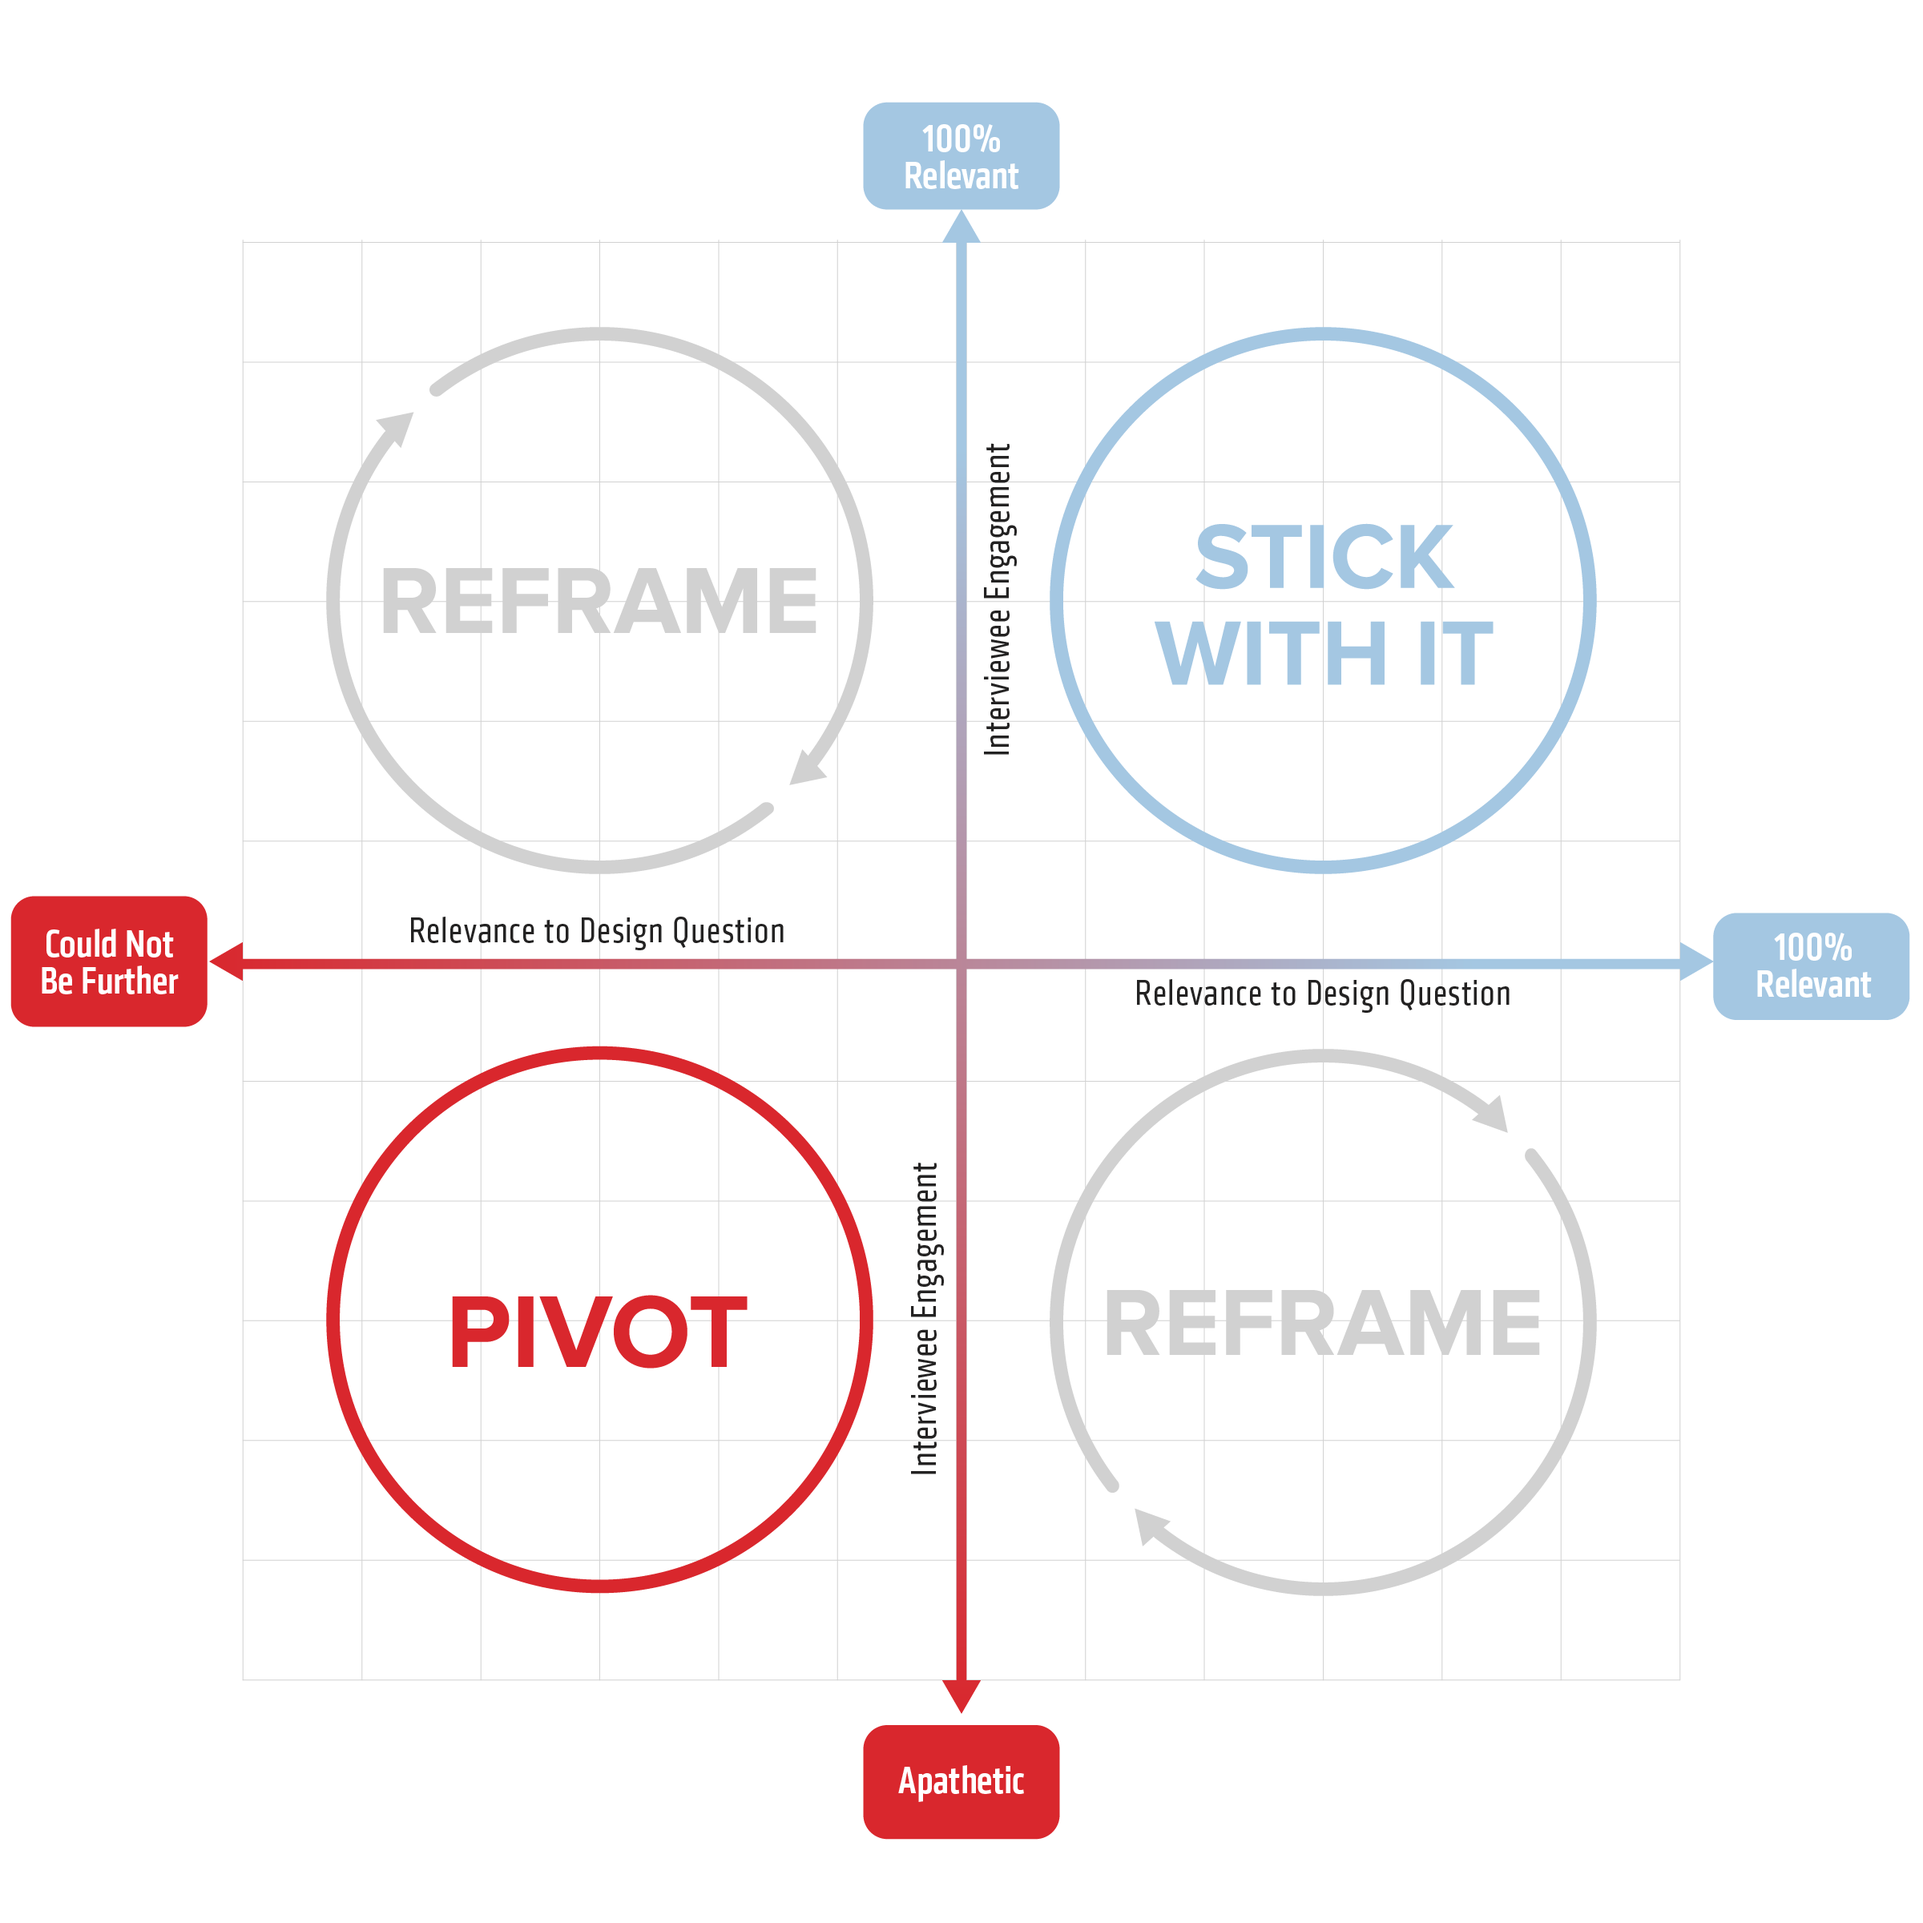
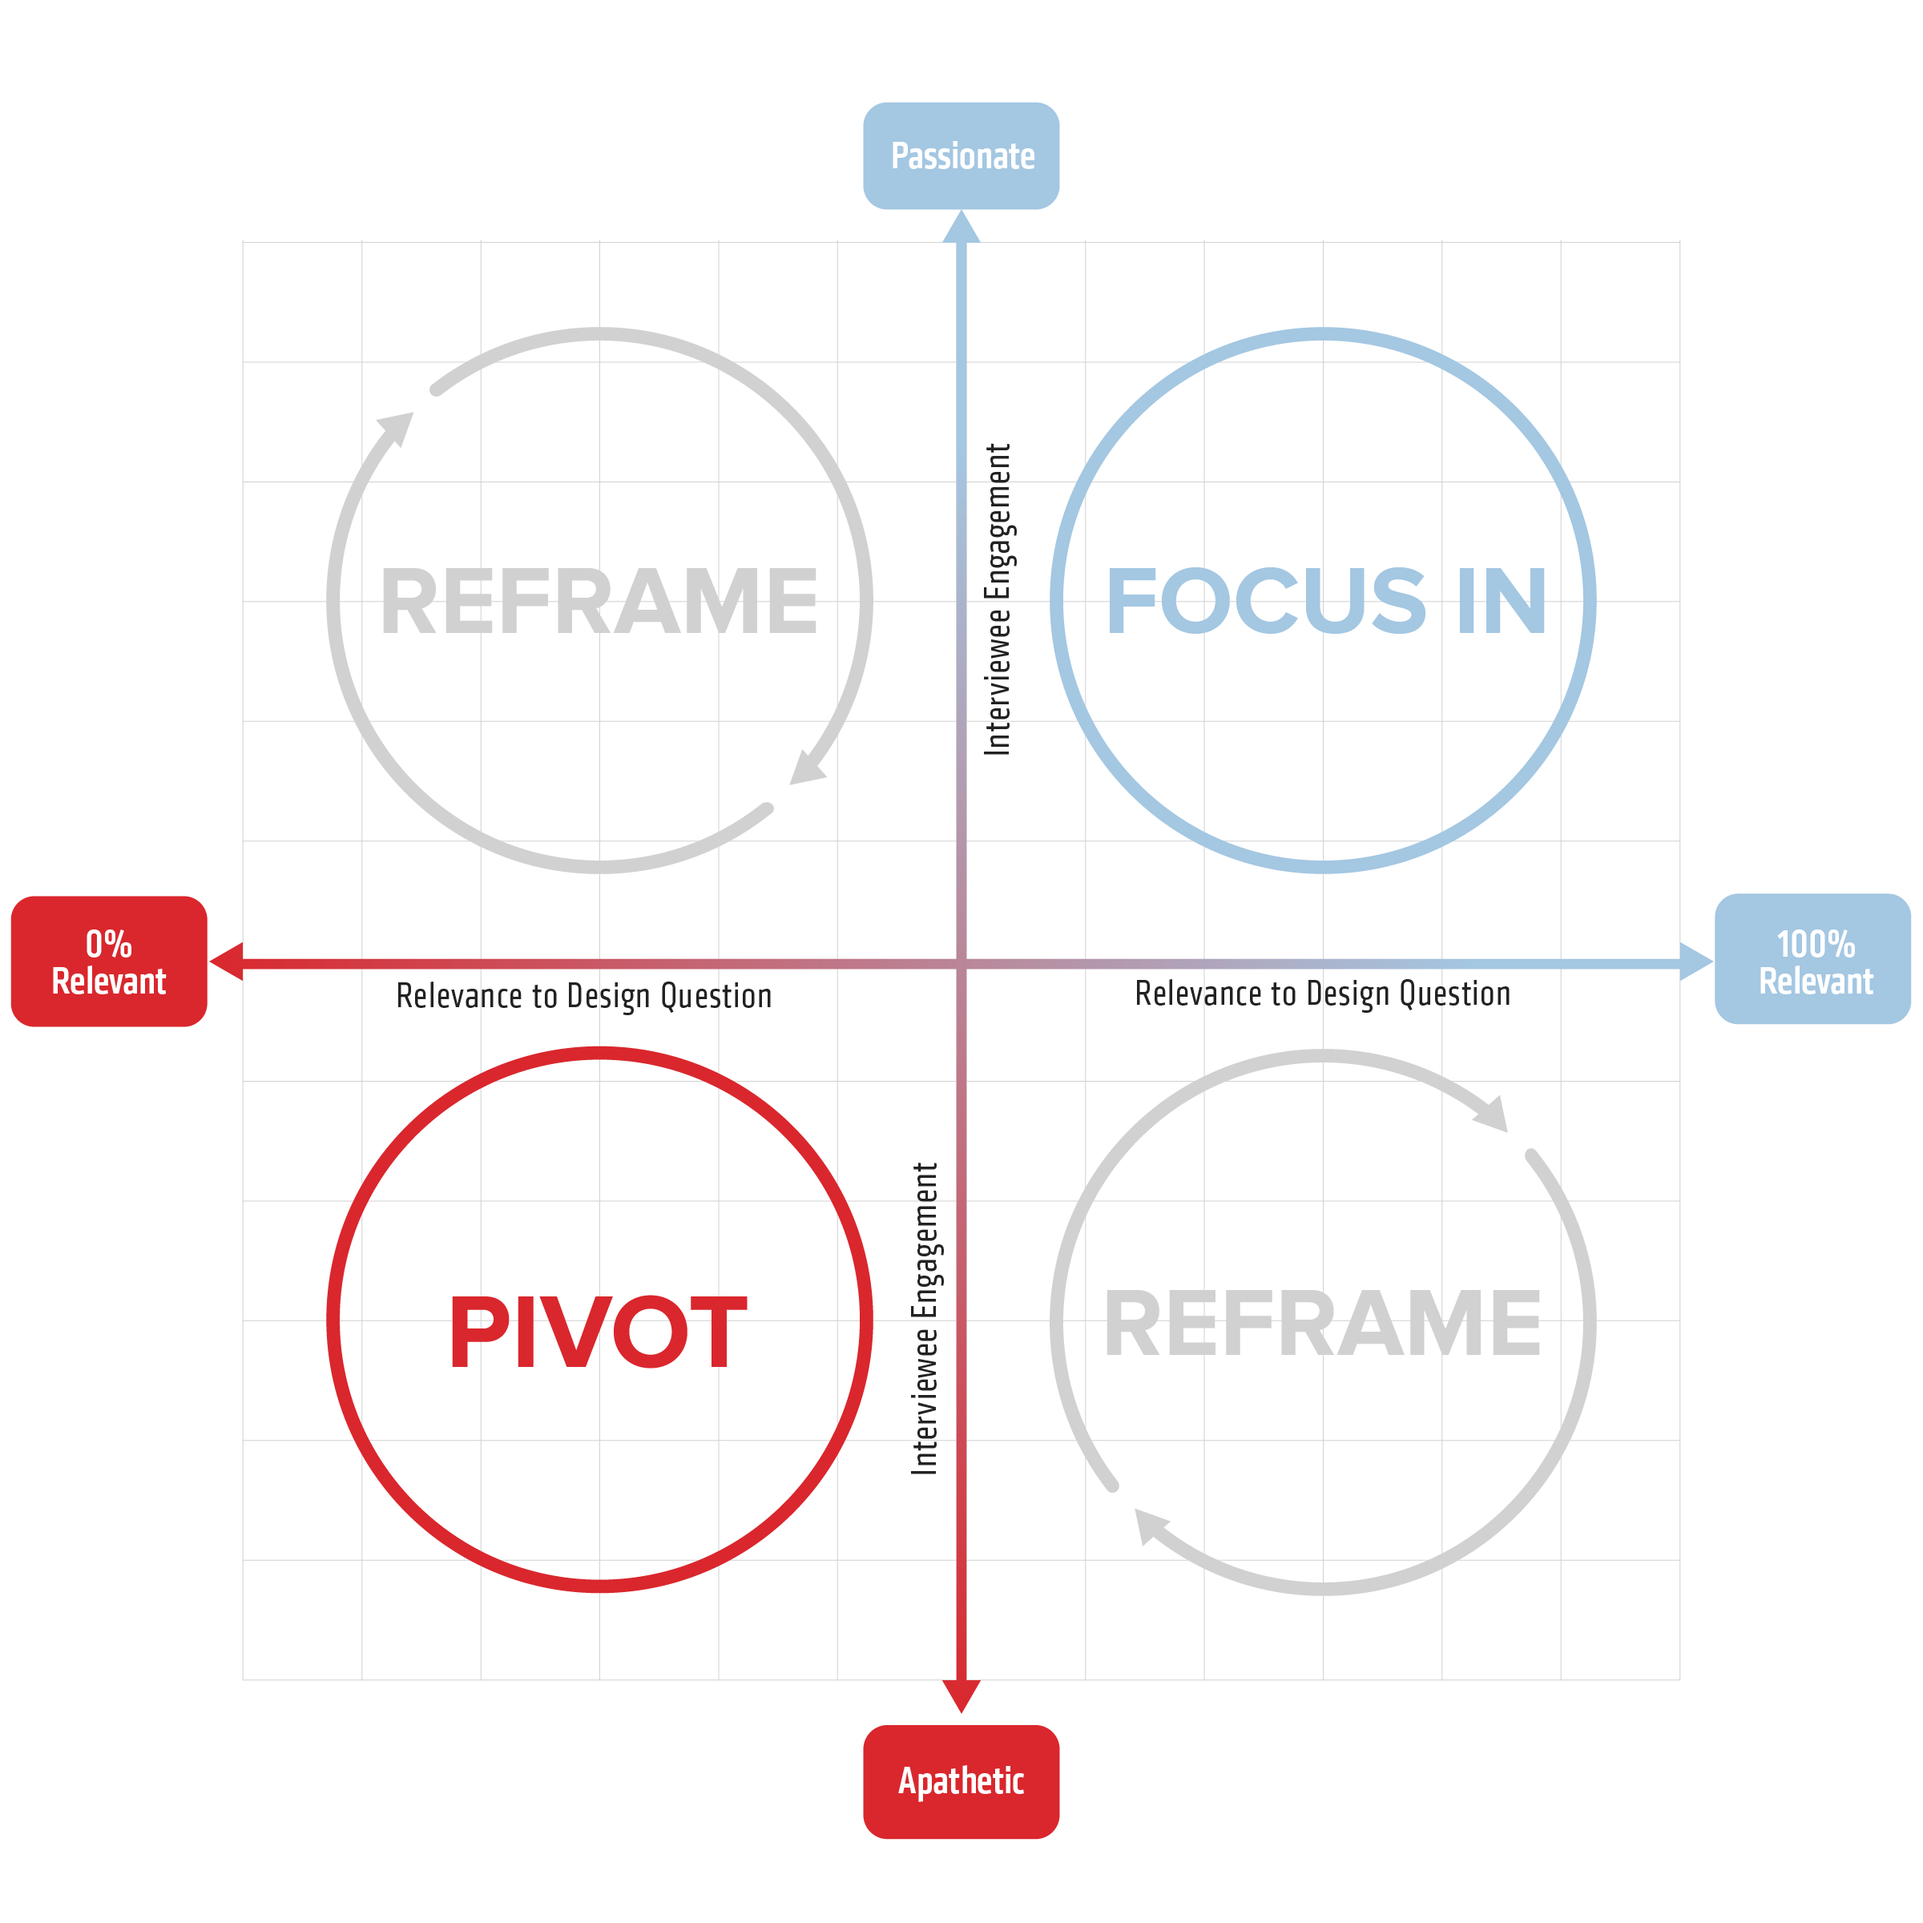
adds pivot graph page

diff --git a/CEDTT/PivotGraph.html b/CEDTT/PivotGraph.html
@@ -75,11 +75,11 @@
     color: white;
     font-size: 14px;
     font-family: "Monaco", "Lucida Console", "Courier New";
-    margin: 12px 10% 12px 10%;
+    margin: 16px 10% 16px 10%;
   }
   a{
     color: #fc83b2;
-    font-size: 24px;
+    font-size: 14px;
     font-family: "Monaco", "Lucida Console", "Courier New";
   }
   
@@ -91,57 +91,36 @@
 <body>
   <div>
     <center>
+      <h1 style="font-size: 28px">
+        Character Sheet
+      </h1>
       <hr width="85%"></hr>
-      <p>The design thinking tools of Carson Eliasen</p>
+      <p>
+        Use the pivot graph to help direct you! <br><br>
+        1. Plot interview data on the graph<br>
+        2. Depending on where the bulk of your data lies:<br>
+        Focus In, Reframe Your Design Quesion, or Completely Pivot
+      </p>
       <hr width="85%"></hr>
     </center>
   </div>
   <div>
     <center>
-      <a href="./PivotGraph.html">
-        Pivot Graph
-      </a>
-      <p>
-        Need help making sense of interview data?
-        Plot it on the pivot graph!
-      </p><br>
-
-      <hr width="15%"></hr><br>
-      
-      <a href="./IdeationBusters.html">
-        Ideation Busters
-      </a>
-      <p>
-        Want to ideate but keep getting stuck? 
-        Do an ideation buster every 1-2 minutes to help you produce innovative ideas!
-      </p><br>
-
-      <hr width="15%"></hr><br>
-      
-      <a href="./CharacterSheet.html">
-        Character Sheet
-      </a>
-      <p>
-        A tool to help build and utilize personas.
-      </p><br>
-
-      <hr width="15%"></hr><br>
-
-      <a href="./ExpectationMatrix.html">
-        Expectation Matrix (WIP)
-      </a>
-      <p>
-        Want to try avoiding some unintentional biases in interview data?
-        Try out the expectation matrix!
-      </p><br>
+      <img src = "./dt_assets/pivot_graph.png" style="height: 500px;">
+      <br>
     </center>
   </div>
   <center><hr width="85%"></hr></center>
   <center><hr width="85%"></hr></center>
 </body>
 <footer>
-  <a style="font-size:12px;" href="https://carsoneliasen.github.io/AlephNull/">
-    Aleph Nulll Home Page
-  </a>
+  <nav style="display: flex; justify-content: space-around;">
+    <a style="font-size:12px;" href="./CEDTT.html">
+      CEDTT Home Page
+    </a>
+    <a style="font-size:12px;" href="https://carsoneliasen.github.io/AlephNull/">
+      Aleph Nulll Home Page
+    </a>
+  </nav>
 </footer>
 </html>
